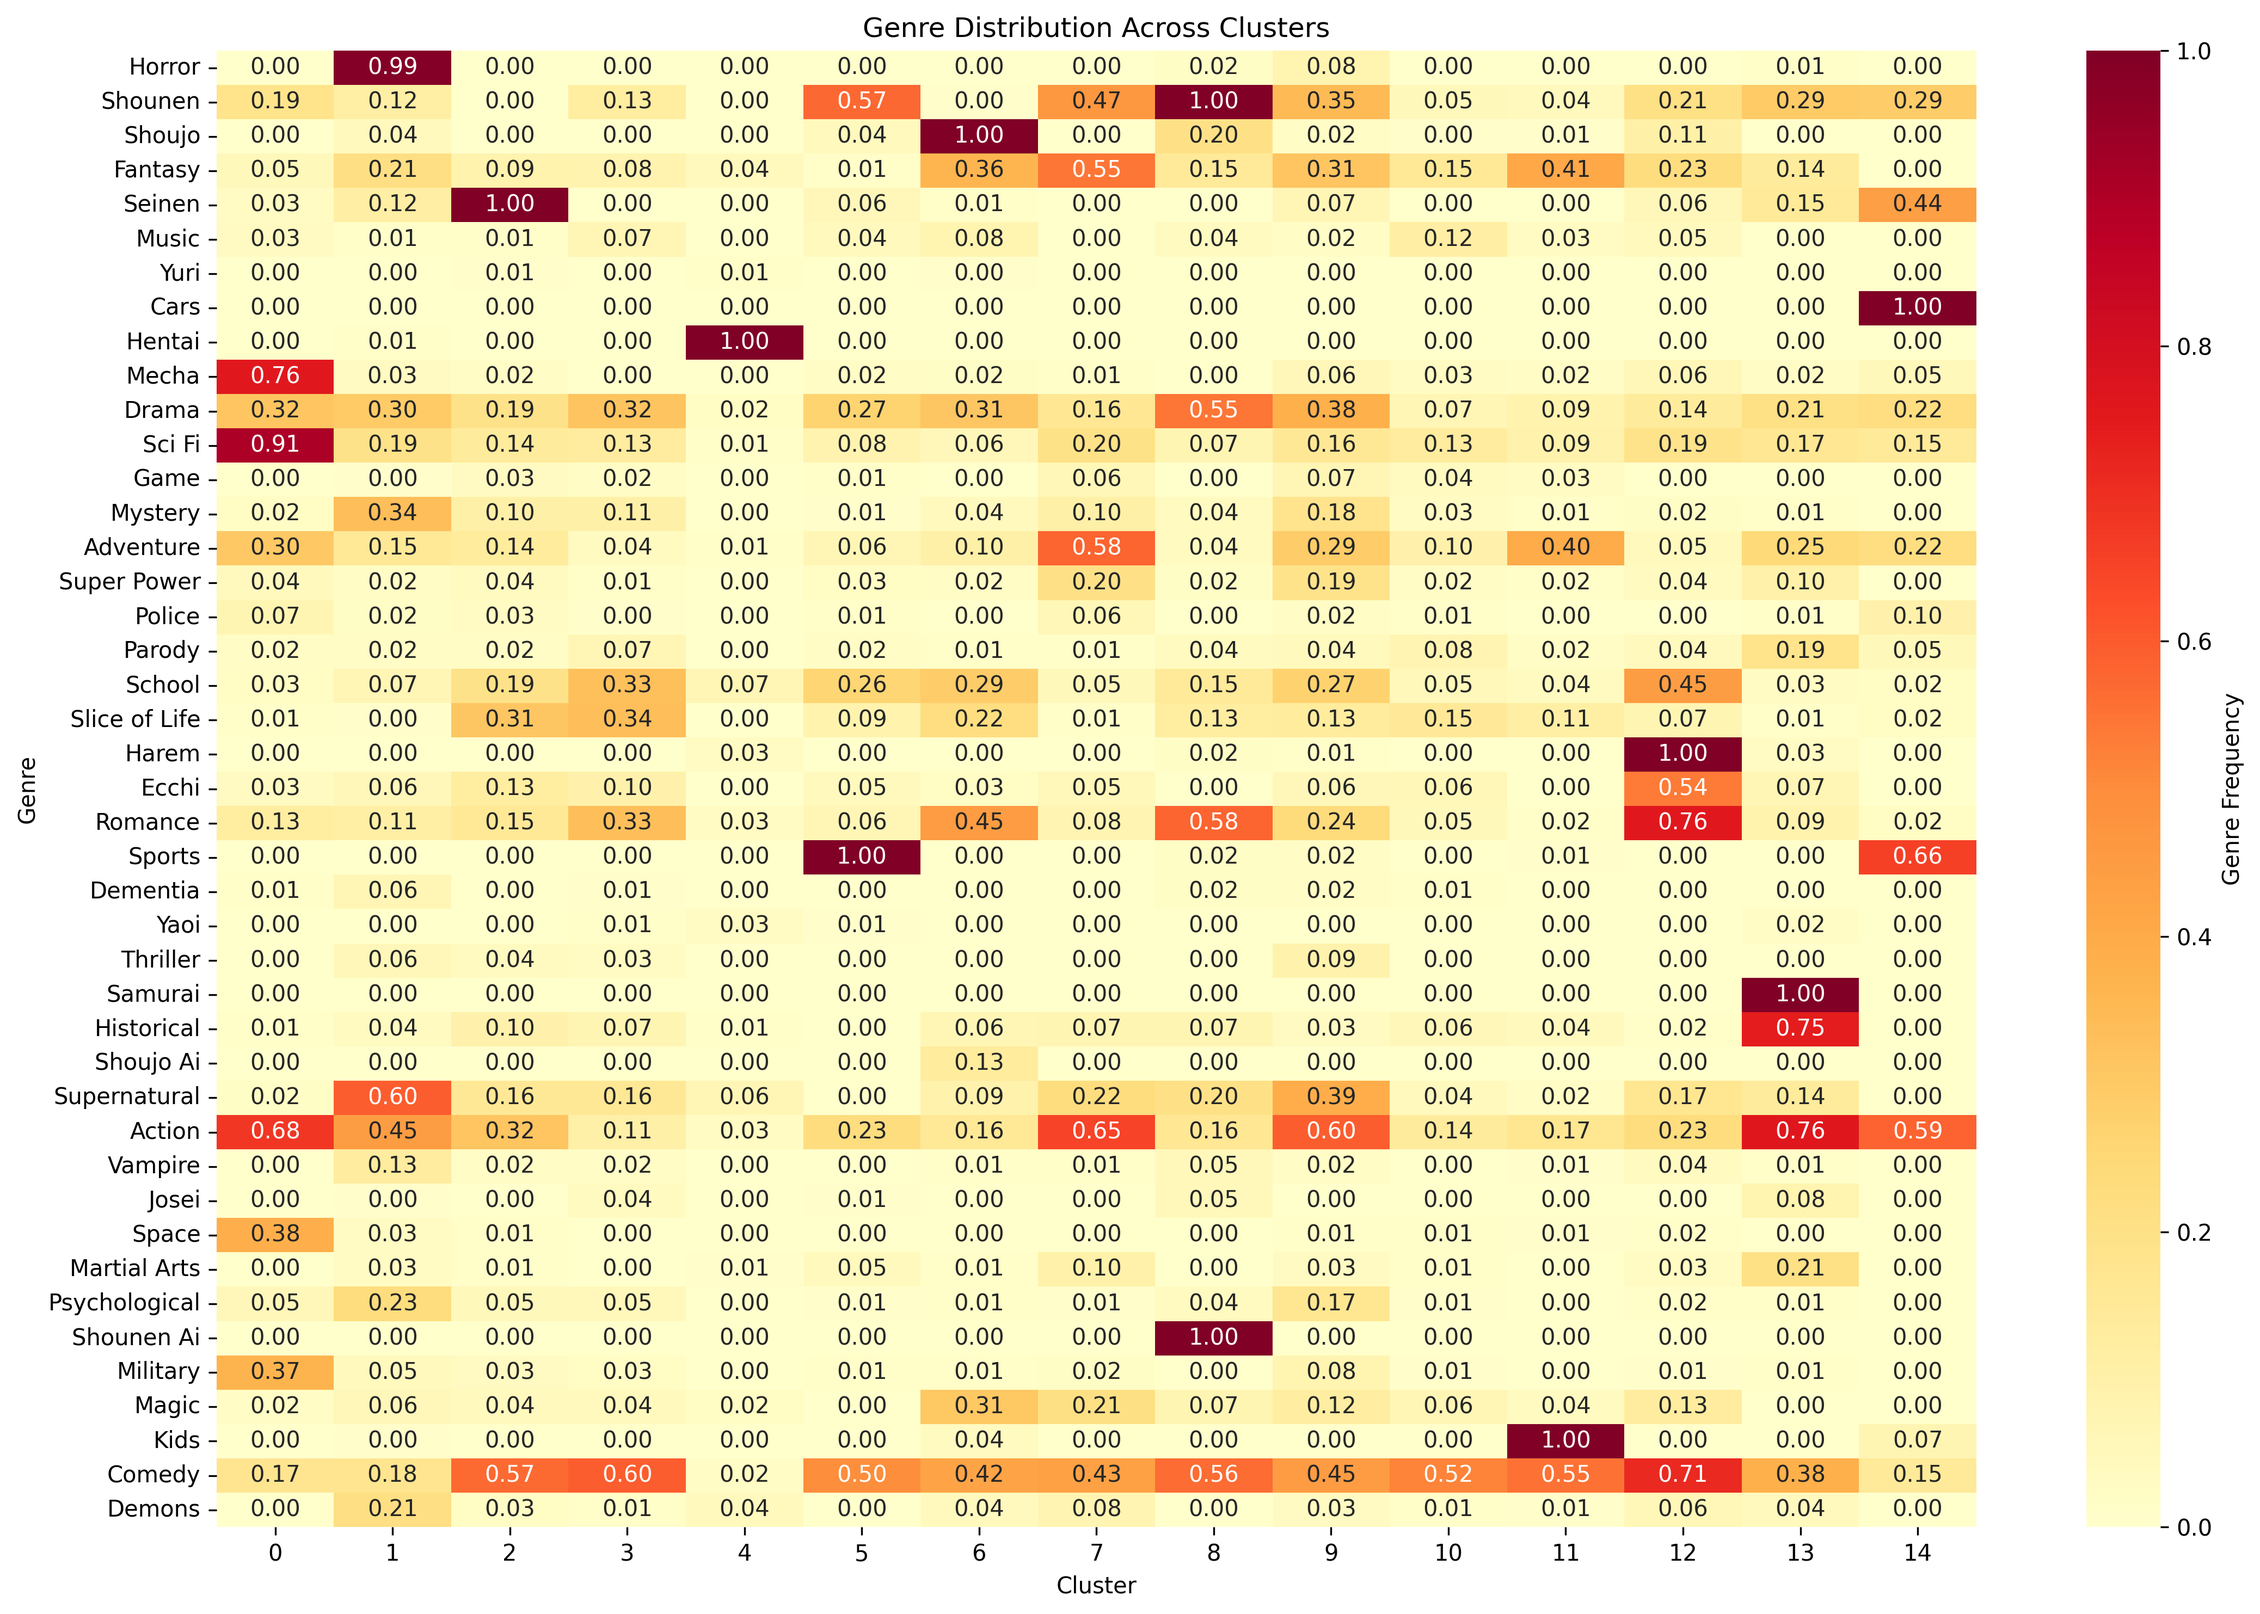
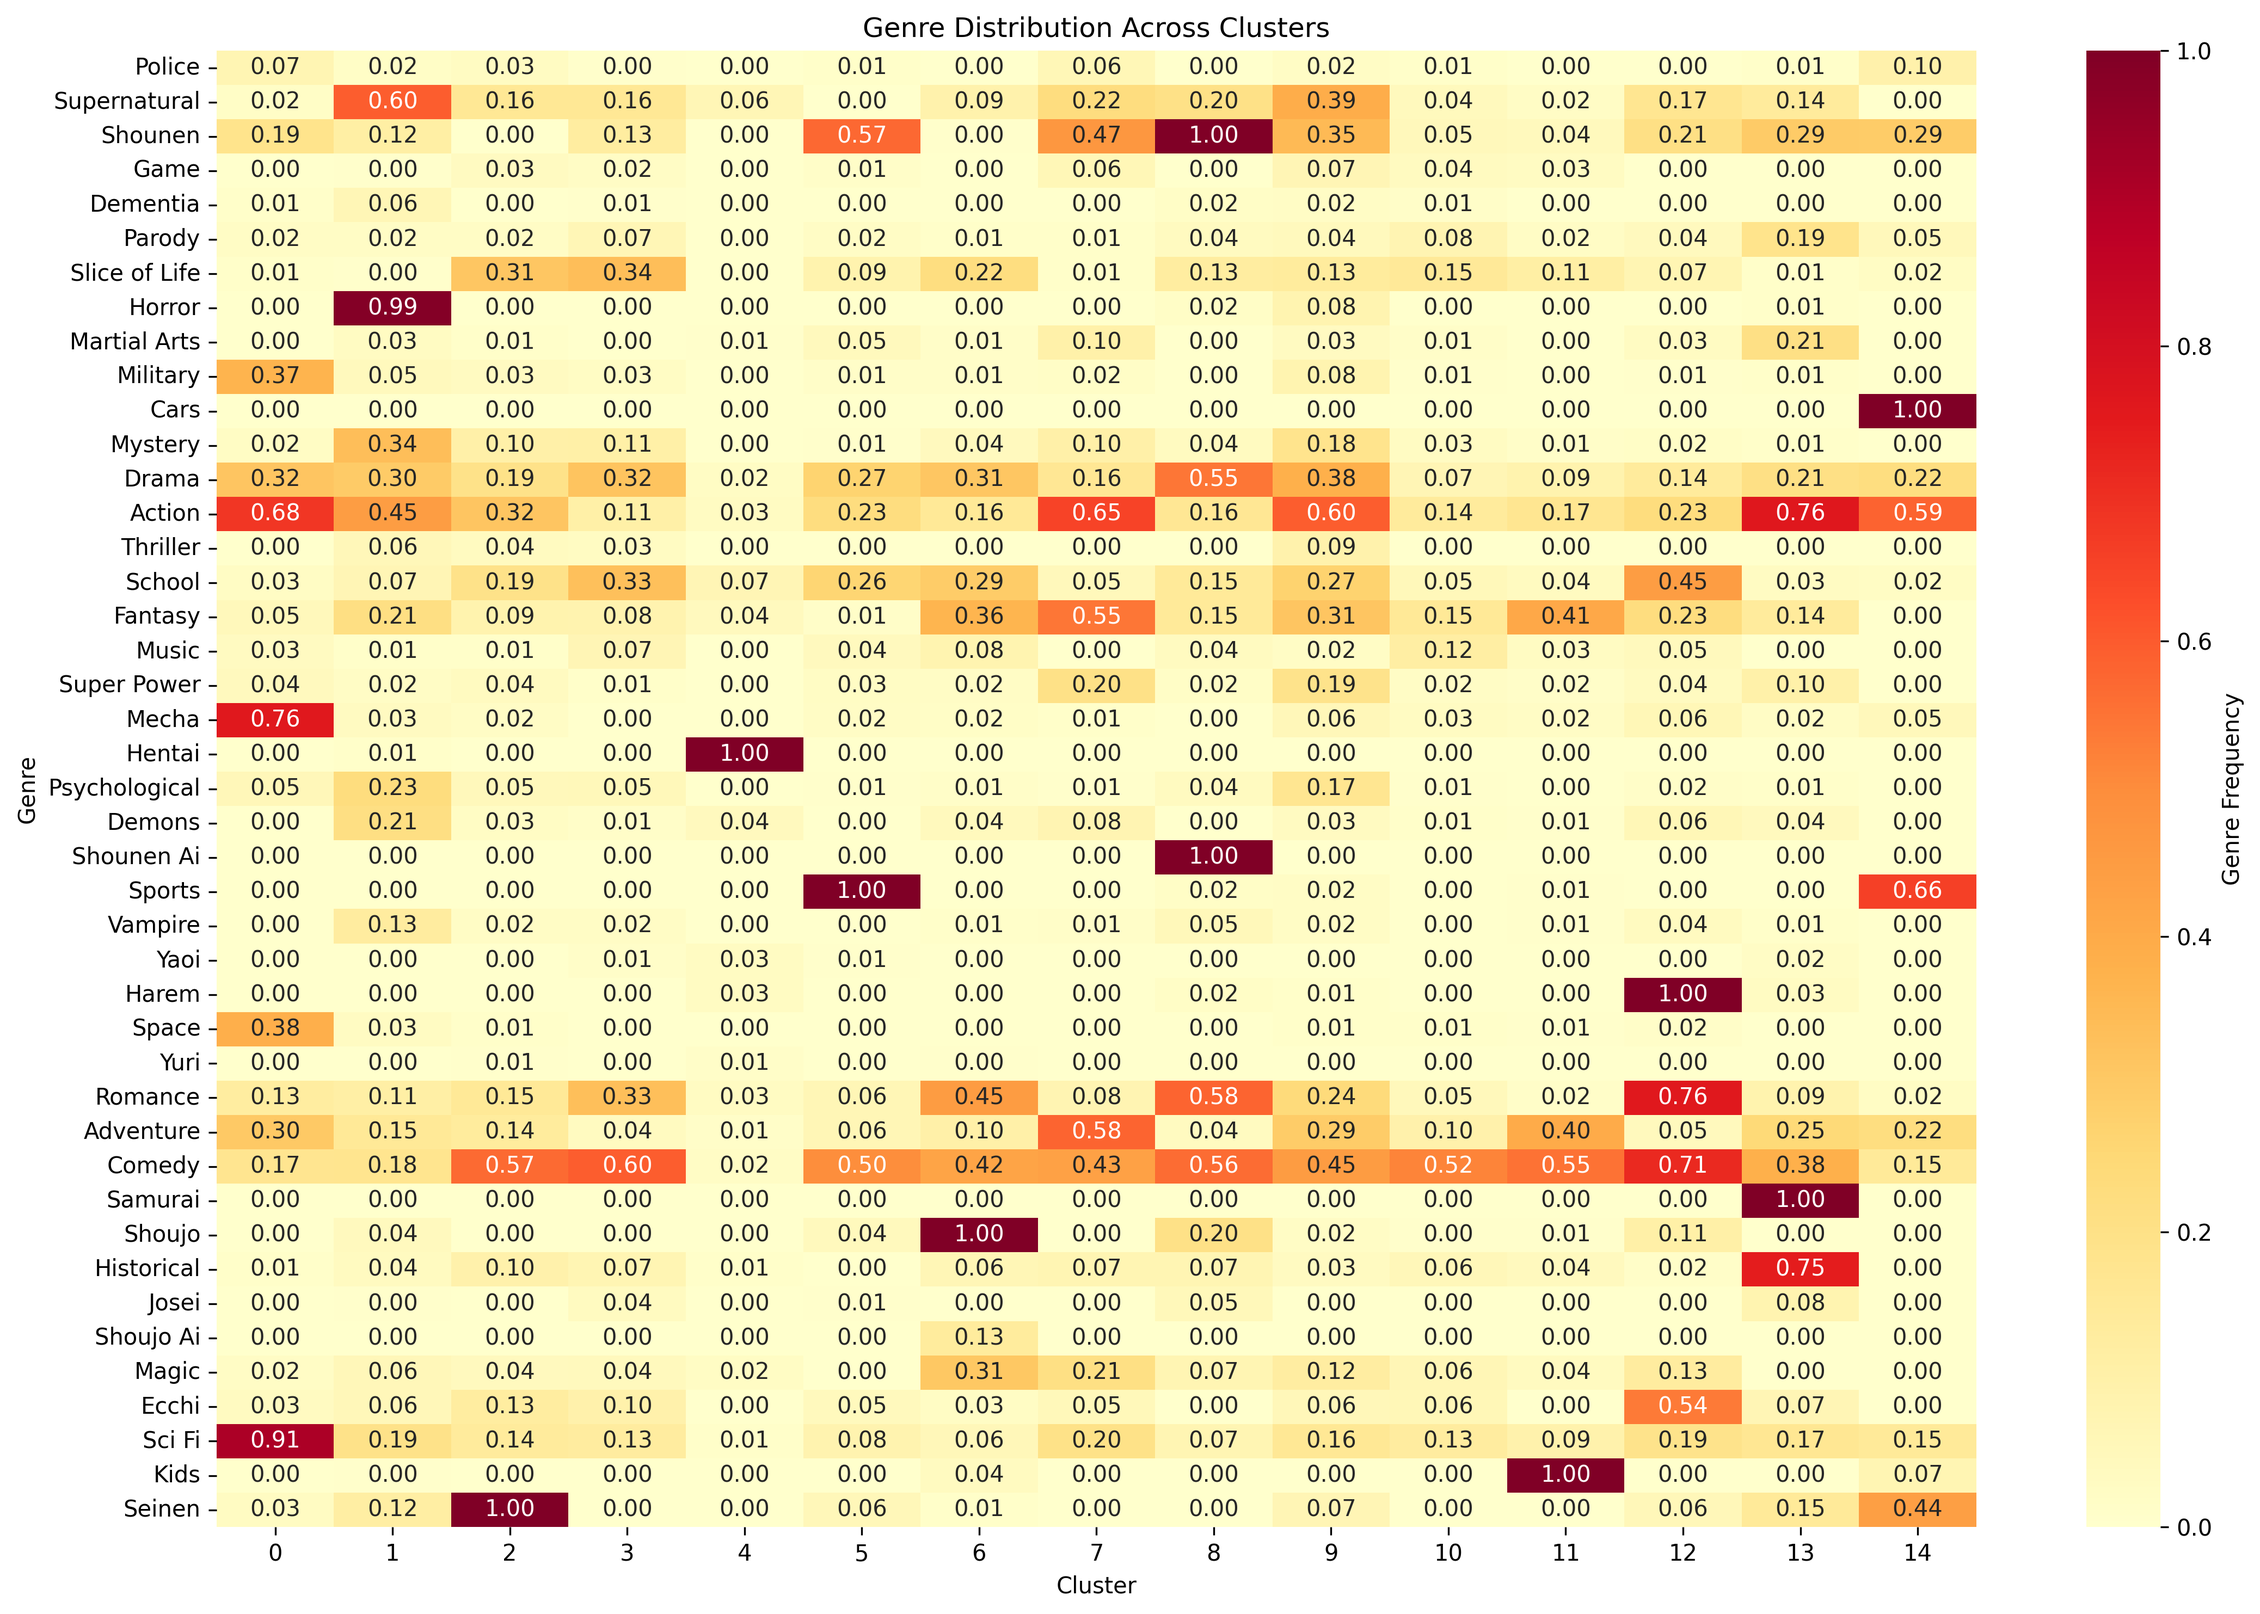
Added data cleaning

diff --git a/main.py b/main.py
@@ -17,7 +17,10 @@ import matplotlib.pyplot as plt
 import seaborn as sns
 import sys
 import os
+import json
+import csv
 from pathlib import Path
+from datetime import datetime
 
 # Machine Learning imports
 from sklearn.preprocessing import StandardScaler
@@ -411,6 +414,94 @@ class AnimeClusterAnalyzer:
 
         print(f"Report generated: {output_file}")
 
+    def clean_and_export_data(self, output_file="csv/myanimelist/anime_cleaned_filtered.csv"):
+        """Clean the anime data by removing low-frequency genres and unwanted columns.
+        Updates the genre column instead of using bit arrays.
+        
+        Args:
+            output_file: Path to the output CSV file
+        """
+        # Get genres to remove
+        omittable_genres = self.identify_omittable_genres()
+        if not omittable_genres:
+            return False
+
+        print(f"\nRemoving {len(omittable_genres)} low-frequency genres...")
+        
+        # Create a copy of the original dataframe
+        cleaned_df = self.df.copy()
+        
+        # Columns to remove
+        columns_to_remove = [
+            "opening_theme", "ending_theme", "airing", "aired_string",
+            "background", "broadcast", "related", "licensor", "duration_min",
+            "image_url", "title_synonyms",
+            "cluster"  # Remove cluster column if it exists
+        ]
+        
+        # Drop unwanted columns
+        cleaned_df = cleaned_df.drop(columns=[col for col in columns_to_remove if col in cleaned_df.columns])
+        
+        # Filter anime based on air dates from the aired JSON column
+        if 'aired' in cleaned_df.columns:
+            
+            def get_year_from_aired(aired_json):
+                try:
+                    aired_dict = json.loads(aired_json.replace("'", '"'))
+                    from_date = aired_dict.get('from')
+                    to_date = aired_dict.get('to')
+                    
+                    if from_date:
+                        from_year = datetime.fromisoformat(from_date.replace('Z', '+00:00')).year
+                        if to_date:
+                            to_year = datetime.fromisoformat(to_date.replace('Z', '+00:00')).year
+                        else:
+                            to_year = from_year
+                            
+                        # Filter conditions:
+                        # 1. Started airing in or after 2000
+                        # 2. Not from 2018 (incomplete)
+                        if from_year >= 2000 and from_year != 2018:
+                            return True
+                    return False
+                except (json.JSONDecodeError, ValueError, AttributeError):
+                    return False
+            
+            # Apply the filter
+            original_count = len(cleaned_df)
+            cleaned_df = cleaned_df[cleaned_df['aired'].apply(get_year_from_aired)]
+            removed_count = original_count - len(cleaned_df)
+            print(f"\nRemoved {removed_count} anime that aired before 2000 or in 2018")
+        
+        # Update the genres column by removing omitted genres
+        if 'genres' in cleaned_df.columns:
+            def filter_genres(genre_string):
+                if pd.isna(genre_string):
+                    return ""
+                genres = genre_string.split(',')
+                filtered_genres = [g.strip() for g in genres if g.strip() not in omittable_genres]
+                return ','.join(filtered_genres)
+            
+            cleaned_df['genres'] = cleaned_df['genres'].apply(filter_genres)
+            
+            # Remove rows with no remaining genres
+            cleaned_df = cleaned_df[cleaned_df['genres'] != ""]
+        
+        # Drop all the genre_* columns
+        genre_cols = [col for col in cleaned_df.columns if col.startswith('genre_')]
+        cleaned_df = cleaned_df.drop(columns=genre_cols)
+        
+        # Export to CSV
+        cleaned_df.to_csv(output_file, index=False)
+        
+        print(f"\nCleaned data exported to: {output_file}")
+        print(f"Removed genres: {', '.join(omittable_genres)}")
+        print(f"Removed columns: {', '.join(columns_to_remove)}")
+        print(f"Original rows: {len(self.df)}")
+        print(f"Remaining rows: {len(cleaned_df)}")
+        print(f"Removed {len(self.df) - len(cleaned_df)} anime that had no remaining genres")
+        return True
+
 
 def main():
     """Main function to run the analysis."""
@@ -475,6 +566,10 @@ def main():
     # Generate report
     print("\nGenerating report...")
     analyzer.generate_report()
+
+    # Clean and export data
+    print("\nCleaning and exporting filtered data...")
+    analyzer.clean_and_export_data()
 
 if __name__ == "__main__":
     main()
